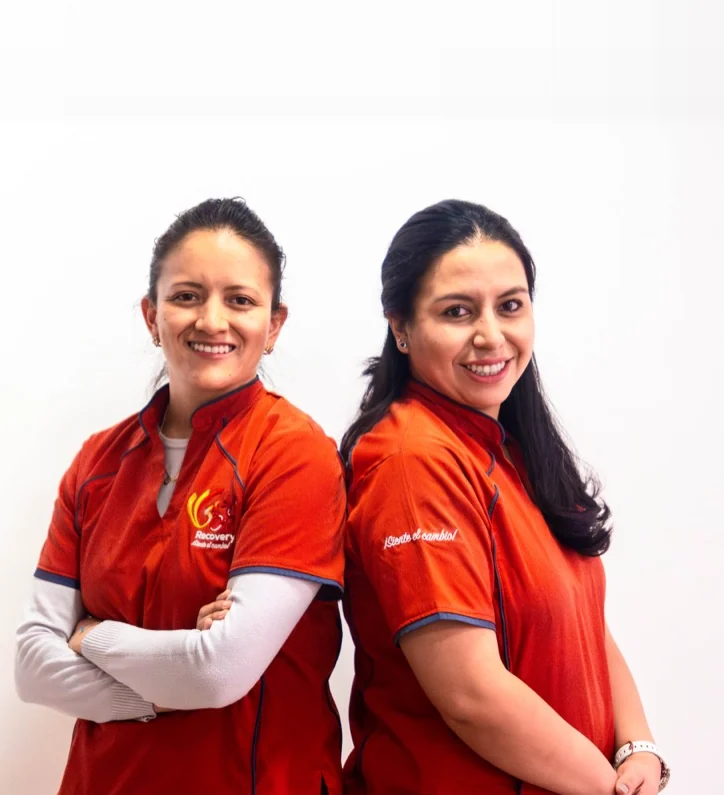
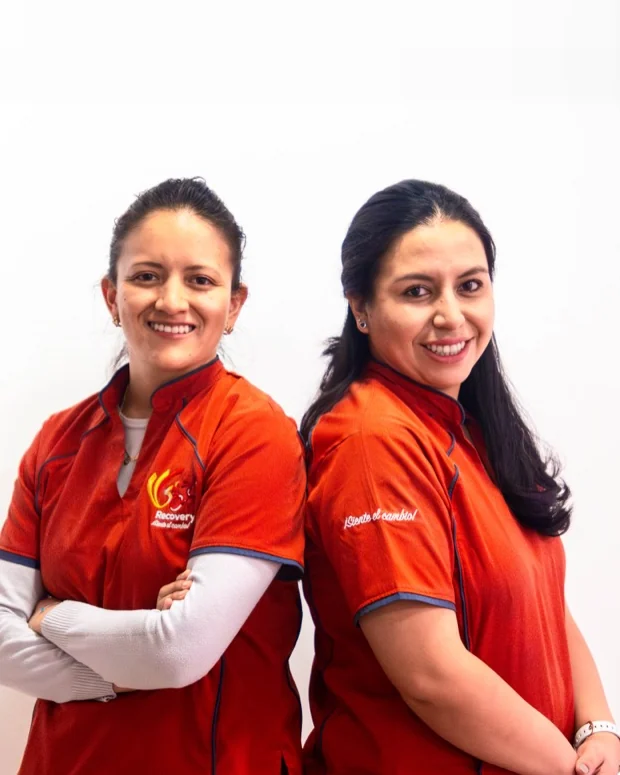
Panel de portada en 4:5 con encuadre cerrado

diff --git a/informe/index.html b/informe/index.html
@@ -73,8 +73,7 @@ img{max-width:100%}
   .hero{min-height:0}
   .hero .in{padding:30px 20px 0}
   .hgrid{grid-template-columns:1fr;gap:28px;padding:30px 0 34px}
-  .hfoto{aspect-ratio:5/4}
-  .hfoto img{object-position:52% 76%}
+  .hfoto{aspect-ratio:4/5;max-width:330px;margin:0 auto}
   }
 h1{font-family:var(--display);font-stretch:76%;font-weight:860;
   font-size:clamp(34px,5vw,60px);line-height:1.02;margin:0 0 18px;
@@ -458,7 +457,7 @@ footer{margin-top:60px;padding-top:22px;border-top:1px solid var(--borde);displa
         <p>Las 47 piezas publicadas entre el 1 de enero y el 24 de noviembre, con datos reales de Metricool.</p>
       </div>
       <figure class="hfoto">
-        <img src="assets/equipo-panel.webp" width="724" height="795" alt="Fisioterapeutas del equipo de Recovery con el uniforme de la marca" fetchpriority="high">
+        <img src="assets/equipo-panel.webp" width="620" height="775" alt="Fisioterapeutas del equipo de Recovery con el uniforme de la marca" fetchpriority="high">
       </figure>
     </div>
   </div>
